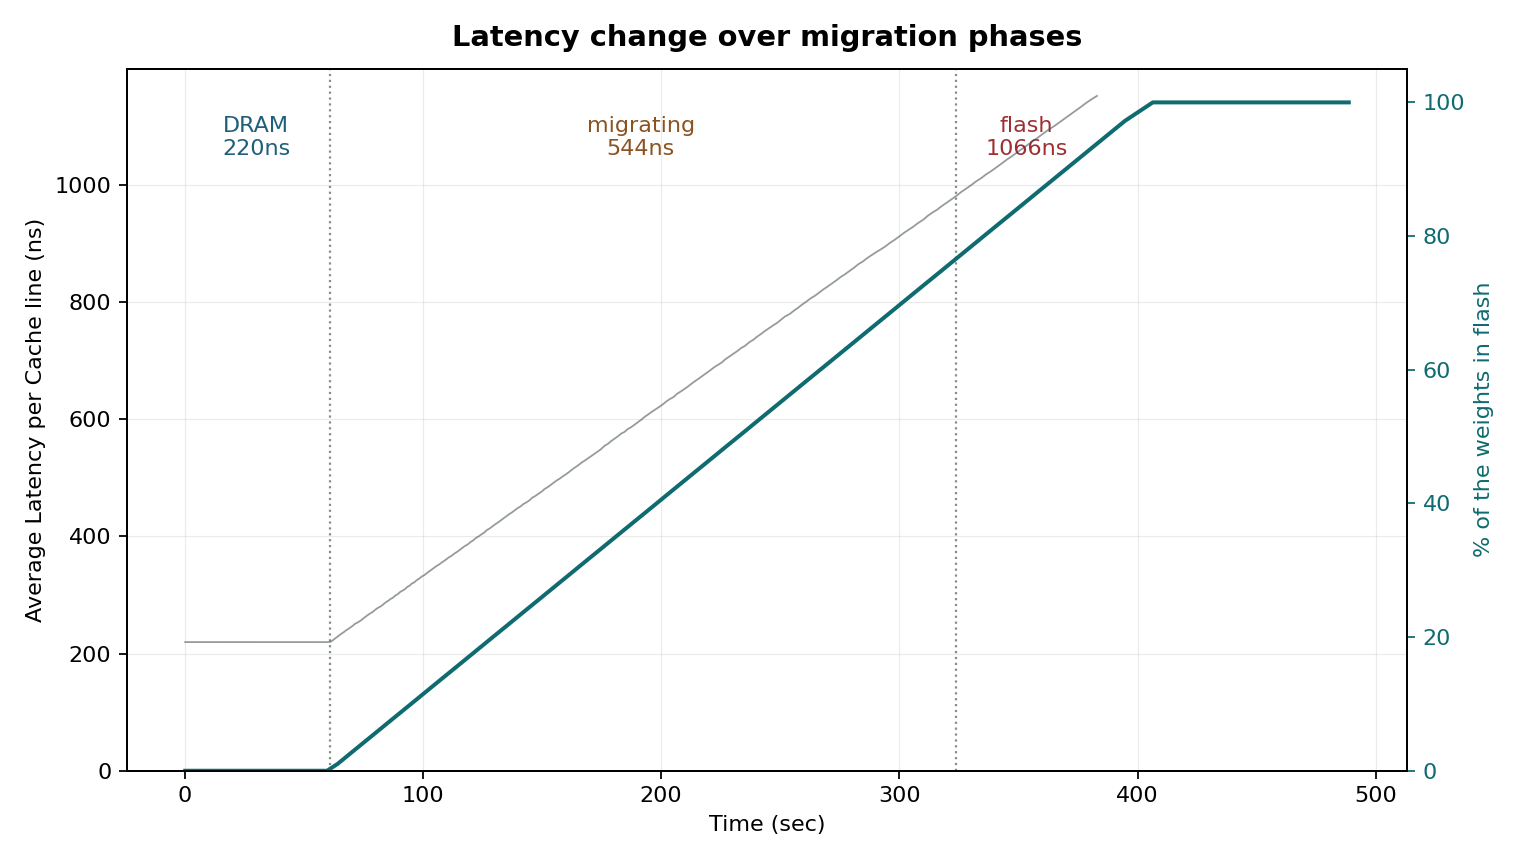
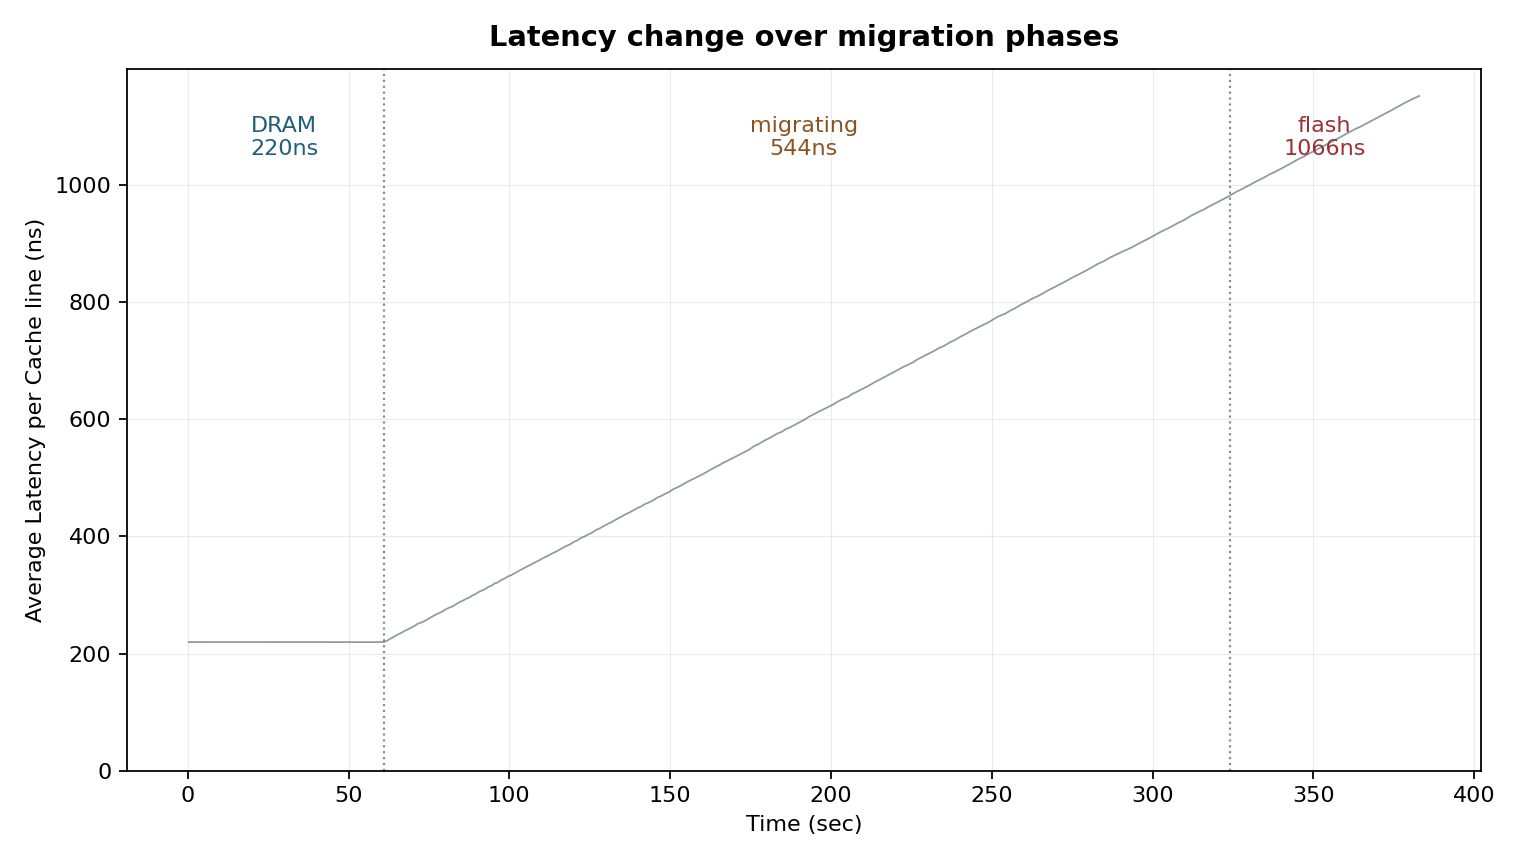
fig7/fig8: drop the residency axis
The latency curve already shows the transition, and a second axis for
residency made the reader check which curve belonged to which scale for
information they could infer. The column stays in the CSV.

diff --git a/scripts/plot_selftest.py b/scripts/plot_selftest.py
@@ -273,13 +273,6 @@ if r:
     ax.plot(t, ns, "-", color="#3d474e", lw=.8, alpha=.55, zorder=3)
     ax.set_ylim(bottom=0)
 
-    rr = [(float(x["elapsed_s"]), float(x["resid_pct"])) for x in r if x["resid_pct"]]
-    if rr:
-        ax2 = ax.twinx()
-        ax2.plot([a for a, _ in rr], [b for _, b in rr], "-", color="#0f6b70", lw=1.8)
-        ax2.set_ylabel("% of the weights in flash", color="#0f6b70")
-        ax2.tick_params(axis="y", colors="#0f6b70")
-        ax2.set_ylim(0, 105)
     frame(ax, "Latency change over migration phases",
           "Time (sec)", "Average Latency per Cache line (ns)")
     fig.tight_layout(); fig.savefig(f"{OUT}/fig7-transition-timeline.png", dpi=160)
@@ -311,14 +304,6 @@ if r:
                     ha="center", va="top", fontsize=9.5, color=col_, fontweight="medium")
     ax.plot(t, ns, "-", color="#3d474e", lw=.8, alpha=.55, zorder=3)
     ax.set_ylim(bottom=0)
-    rr = [(float(x["elapsed_s"]), float(x["resid_pct"])) for x in r
-          if x["resid_pct"] and float(x["elapsed_s"]) <= t[-1]]
-    if rr:
-        ax2 = ax.twinx()
-        ax2.plot([a for a, _ in rr], [b for _, b in rr], "-", color="#0f6b70", lw=1.6)
-        ax2.set_ylabel("% of the weights in flash", color="#0f6b70")
-        ax2.tick_params(axis="y", colors="#0f6b70")
-        ax2.set_ylim(0, 105)
     frame(ax, "Latency when migration must wait for erases",
           "Time (sec)", "Average Latency per Cache line (ns)")
     fig.tight_layout(); fig.savefig(f"{OUT}/fig8-worst-case.png", dpi=200)
